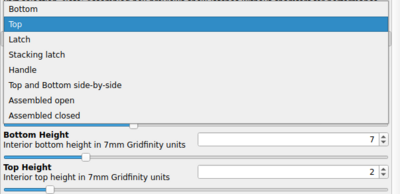
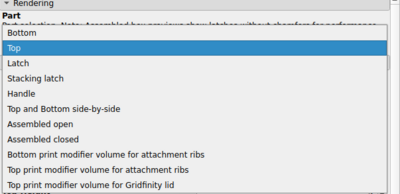
Update Gridfinity rugged box images and documentation

diff --git a/gridfinity/rugged-box/README.md b/gridfinity/rugged-box/README.md
@@ -196,6 +196,8 @@ drop-down, select and render each of:
 This will produce a model that is just the attachment ribs without the box body.
 Render and export each of these models.
 
+![OpenSCAD screenshot of modifier part selected](images/readme/openscad-screenshot-modifier-part-select.png)
+
 In PrusaSlicer, load the box model to print. Then, in the Plater view,
 right-click on the box model to open the context menu. Select **Add Modifier**
 -> **Load...**, and then select the modifier volume for the matching part
